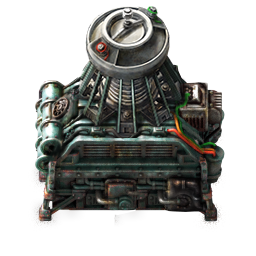
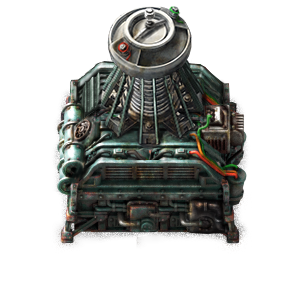
1.1.0
- Reworked entity graphics (now squarer)
    - Made it a bit cheaper
    - Added 1 tile range (in all directions)

diff --git a/README.md b/README.md
@@ -1,5 +1,4 @@
 # Hypercell substation
-
-![recipe](https://i.imgur.com/LqDsaCt.png) ![recipe](https://i.imgur.com/n6UdcnD.png)
 ![recipe](https://i.imgur.com/SKsWcC3.png)
-![recipe](https://i.imgur.com/3e7BG2K.png)
+![recipe](https://i.imgur.com/XDdecBQ.png) ![recipe](https://i.imgur.com/108GDiR.png)![recipe](https://i.imgur.com/n6UdcnD.png)
+![recipe](https://i.imgur.com/dGNpWIo.png)
